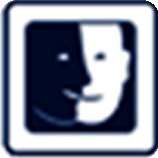
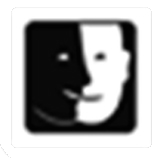
style(accessibility): icones handicap en bleu nav, sans cadre ni tooltip

diff --git a/frontend/src/components/layout/DisabilitySymbols.tsx b/frontend/src/components/layout/DisabilitySymbols.tsx
@@ -1,4 +1,3 @@
-import { useState } from 'react';
 import { Link } from 'react-router-dom';
 
 /* ========================================================================================= */
@@ -22,7 +21,7 @@ export const ACPDPH_LOGO_SYMBOLS = [
     id: 'moteur',
     title: 'Handicap Moteur',
     badge: 'Mobilité réduite',
-    desc: 'Accessibilité des édifices publics, rampes d\'accès, voiries et autonomie en fauteuil roulant.',
+    desc: "Accessibilité des édifices publics, rampes d'accès, voiries et autonomie en fauteuil roulant.",
     image: '/acpdph_moteur.png',
   },
   {
@@ -44,80 +43,58 @@ export const ACPDPH_LOGO_SYMBOLS = [
 interface DisabilitySymbolsProps {
   className?: string;
   iconClassName?: string;
+  /** @deprecated - tooltip désactivé, conservé pour compatibilité ascendante */
   showTooltip?: boolean;
 }
 
 export default function DisabilitySymbols({
   className = '',
   iconClassName = 'w-8 h-8 sm:w-9 sm:h-9 lg:w-10 lg:h-10',
-  showTooltip = true,
 }: DisabilitySymbolsProps) {
-  const [activeTooltip, setActiveTooltip] = useState<string | null>(null);
-
   return (
     <div
       className={`inline-flex items-center gap-2 sm:gap-2.5 lg:gap-3 ${className}`}
       role="group"
       aria-label="Symboles officiels du handicap – Logo ACPDPH"
     >
-      {ACPDPH_LOGO_SYMBOLS.map(({ id, title, badge, desc, image }) => {
-        const isHovered = activeTooltip === id;
-
-        return (
-          <Link
-            key={id}
-            to="/pillars"
-            aria-label={`${title} : ${desc}`}
-            className="relative group p-0.5 flex items-center justify-center transition-transform duration-150 hover:scale-110 focus:outline-none focus-visible:ring-2 focus-visible:ring-[var(--color-accent)] rounded-lg"
-            onMouseEnter={() => setActiveTooltip(id)}
-            onMouseLeave={() => setActiveTooltip(null)}
-            onFocus={() => setActiveTooltip(id)}
-            onBlur={() => setActiveTooltip(null)}
-          >
-            <img
-              src={image}
-              alt={title}
-              className={`${iconClassName} object-contain rounded-md shadow-sm border border-slate-300/80 dark:border-zinc-600 bg-white transition-all duration-150 group-hover:shadow-md group-hover:border-[var(--color-accent)]`}
-            />
-
-            {/* Message d'information (Tooltip) élégant et immédiat au survol */}
-            {showTooltip && (
-              <div
-                role="tooltip"
-                className={`absolute left-1/2 -translate-x-1/2 top-full mt-3 z-[100] w-64 pointer-events-none bg-slate-900/95 dark:bg-zinc-850/98 backdrop-blur-md text-white rounded-lg p-3 shadow-2xl border border-slate-700/80 dark:border-zinc-700 transition-all duration-150 origin-top ${
-                  isHovered
-                    ? 'opacity-100 visible translate-y-0'
-                    : 'opacity-0 invisible translate-y-1 group-hover:opacity-100 group-hover:visible group-hover:translate-y-0 group-focus-visible:opacity-100 group-focus-visible:visible group-focus-visible:translate-y-0'
-                }`}
-              >
-                {/* Flèche indicatrice orientée vers le symbole */}
-                <div className="absolute -top-1.5 left-1/2 -translate-x-1/2 w-3 h-3 bg-slate-900 dark:bg-zinc-850 rotate-45 border-t border-l border-slate-700/80 dark:border-zinc-700" />
-
-                {/* En-tête avec titre du handicap et badge thématique */}
-                <div className="relative z-10 flex items-center justify-between gap-2 pb-1.5 mb-1.5 border-b border-white/10">
-                  <span className="font-heading font-extrabold text-[12px] text-teal-300 dark:text-teal-300 tracking-wide">
-                    {title}
-                  </span>
-                  <span className="text-[9.5px] uppercase font-bold tracking-wider px-1.5 py-0.5 rounded bg-teal-500/20 text-teal-200 border border-teal-400/30 shrink-0">
-                    {badge}
-                  </span>
-                </div>
-
-                {/* Description du type de handicap et actions ACPDPH */}
-                <p className="relative z-10 text-[11px] text-slate-200 dark:text-zinc-200 font-normal leading-relaxed text-left">
-                  {desc}
-                </p>
-
-                {/* Indication d'interaction */}
-                <div className="relative z-10 mt-2 pt-1.5 border-t border-white/10 flex items-center justify-between text-[10px] text-slate-400 dark:text-zinc-400 font-medium">
-                  <span>Symbole officiel ACPDPH</span>
-                  <span className="text-teal-300 underline decoration-teal-400/40">En savoir plus</span>
-                </div>
-              </div>
-            )}
-          </Link>
-        );
-      })}
+      {ACPDPH_LOGO_SYMBOLS.map(({ id, title, image }) => (
+        <Link
+          key={id}
+          to="/pillars"
+          aria-label={title}
+          className={`relative flex items-center justify-center transition-transform duration-150 hover:scale-110 focus:outline-none focus-visible:ring-2 focus-visible:ring-offset-1 focus-visible:ring-[var(--color-accent)] ${iconClassName}`}
+          style={{
+            border: 'none',
+            outline: 'none',
+            boxShadow: 'none',
+            background: 'transparent',
+            padding: 0,
+            borderRadius: 0,
+            textDecoration: 'none',
+          }}
+        >
+          {/*
+           * Technique mask-image : utilise le PNG comme pochoir (alpha channel)
+           * et remplit avec --color-primary (bleu menu nav #1D4ED8).
+           * Le fond blanc original est transparent, le symbole apparaît en bleu.
+           */}
+          <span
+            className="block w-full h-full"
+            style={{
+              backgroundColor: 'var(--color-primary)',
+              maskImage: `url(${image})`,
+              maskSize: 'contain',
+              maskRepeat: 'no-repeat',
+              maskPosition: 'center',
+              WebkitMaskImage: `url(${image})`,
+              WebkitMaskSize: 'contain',
+              WebkitMaskRepeat: 'no-repeat',
+              WebkitMaskPosition: 'center',
+            }}
+            aria-hidden="true"
+          />
+        </Link>
+      ))}
     </div>
   );
 }
